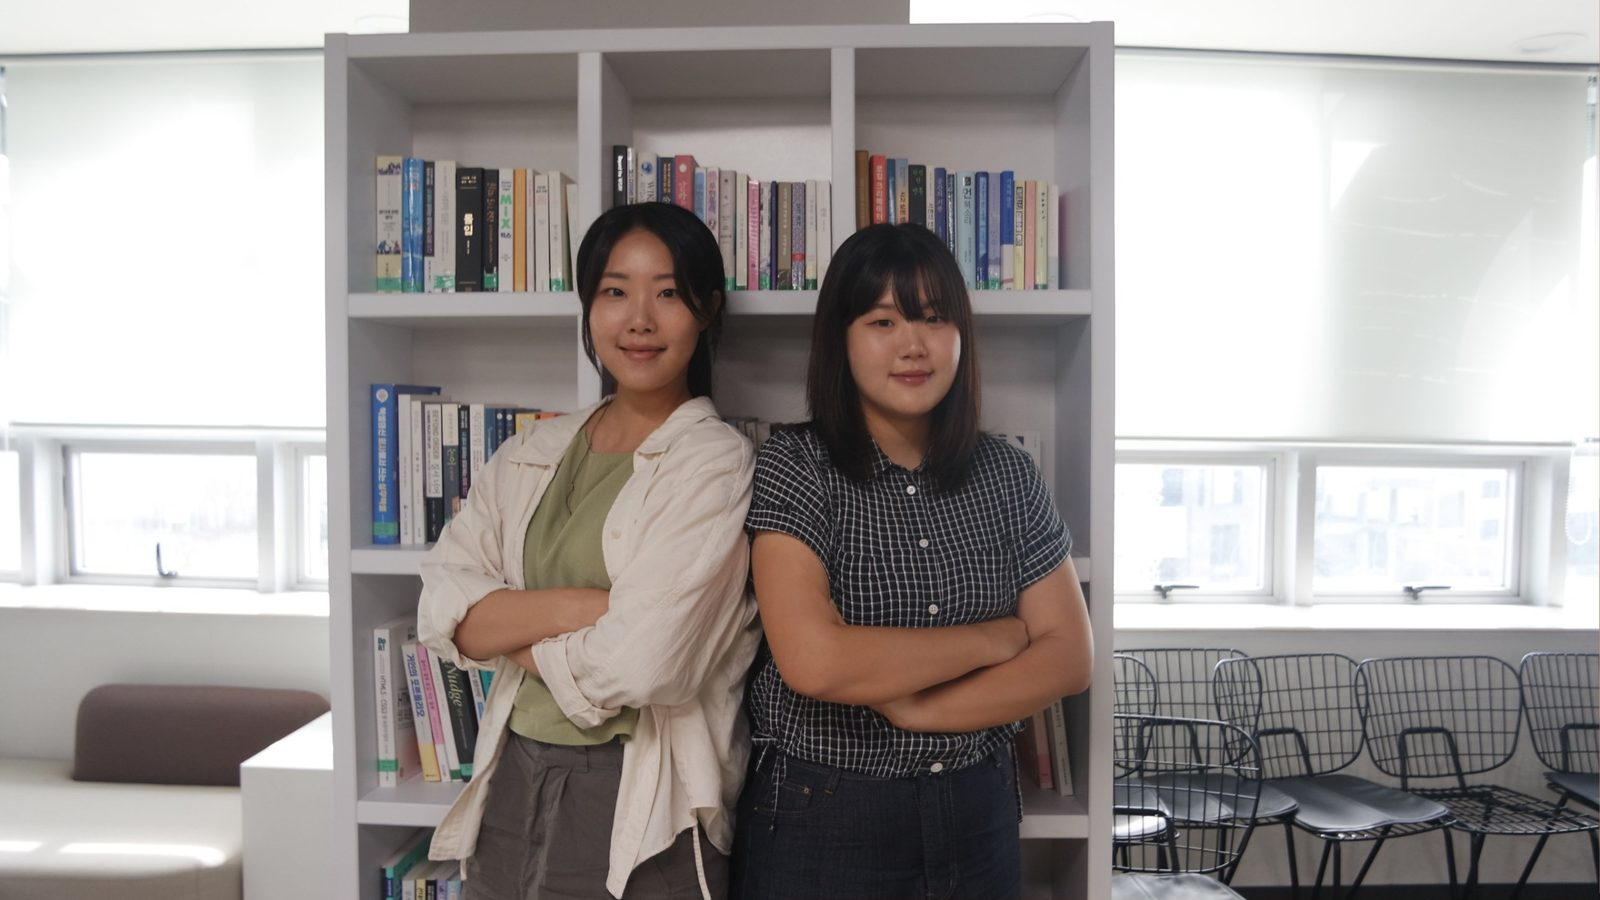
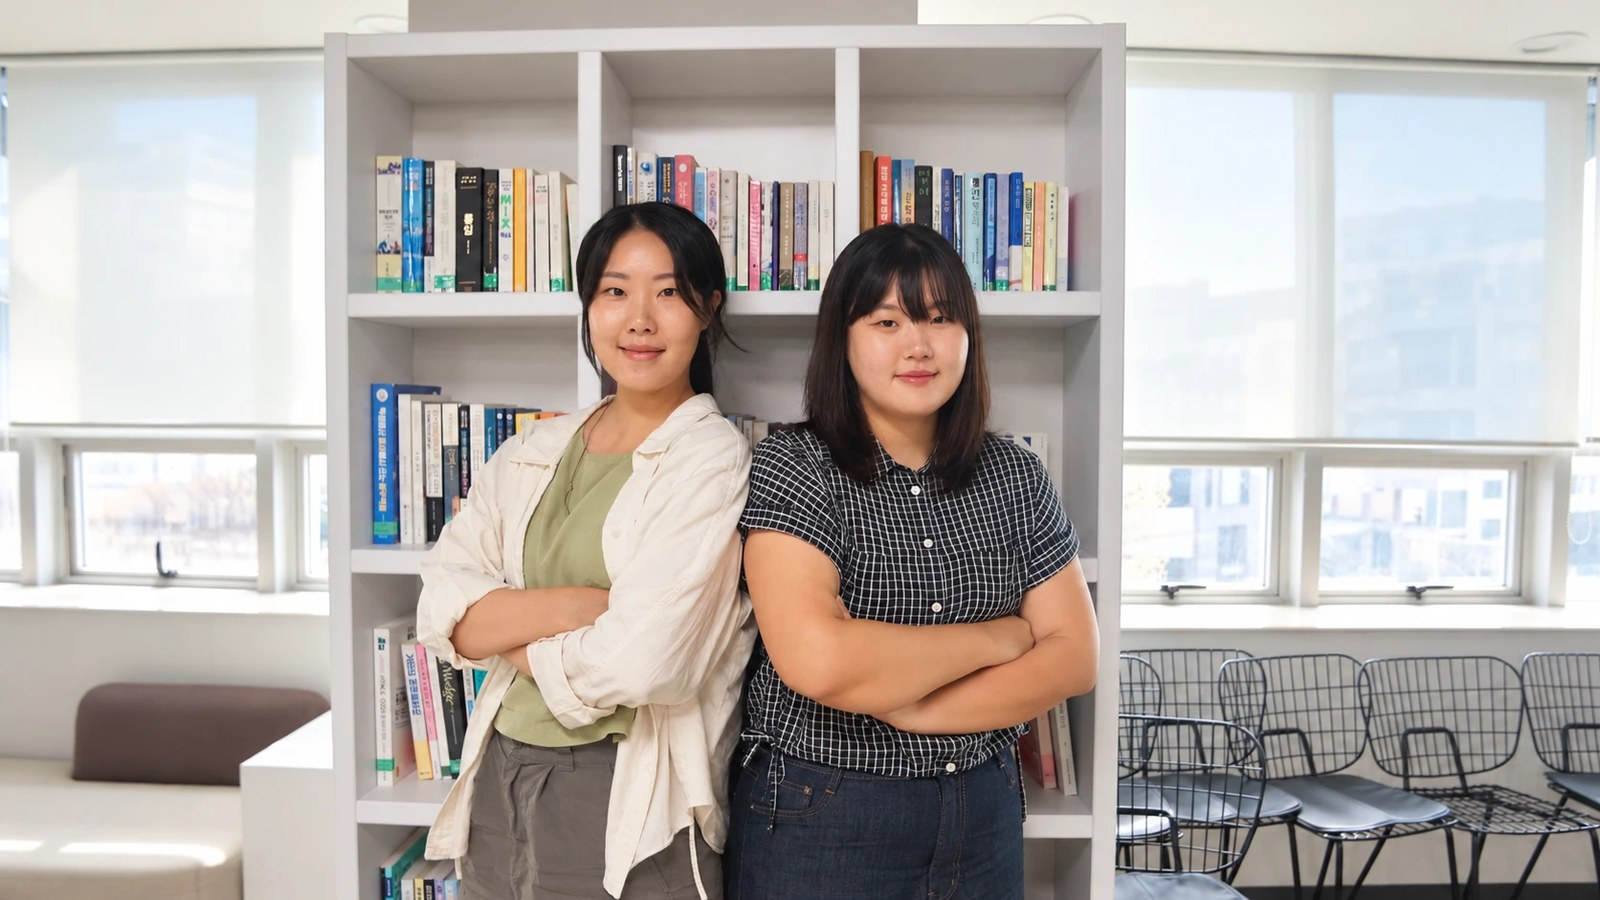
서브메인 아인학교 슬라이드 사진: 사용자가 준 밝기 손본 사진으로 (세 언어)
- interview-01-photo.jpg?v=2 (같은 장면, 어긋남 0px, 214KB)
- 서브메인용 누끼 interview-01-cut-b.webp (모양은 전 누끼 그대로, 색만 새 사진). 기사 첫 화면이 쓰는 interview-01-cut.webp는 그대로
- 다른 부분(누끼 밝기 CSS 등)은 손대지 않음, CLAUDE.md에 적음

diff --git a/public/index.html b/public/index.html
@@ -138,7 +138,7 @@
         </article>
         <article class="person person--photo person--photo-low" data-tone="photo" aria-labelledby="person-2-name" aria-roledescription="슬라이드" data-index="2">
           <!-- 배경: 팀이 직접 찍은 실사 사진 -->
-          <img class="person__photo" src="images/interview-01-photo.jpg" width="1600" height="900"
+          <img class="person__photo" src="images/interview-01-photo.jpg?v=2" width="1600" height="900"
                alt="아인학교 인터뷰 사진: 책장 앞에서 팔짱을 끼고 나란히 서서 웃고 있는 두 사람">
           <header class="person__top">
             <div>
@@ -150,7 +150,7 @@
           <div class="person__center">
             <h3 class="person__name" id="person-2-name"><span class="sr-only">아인학교: 섬의 자연에서 새로운 배움을 짓다</span><span class="person__back" aria-hidden="true"><span class="person__line person__line--back">섬의<br>자연에서</span></span><span class="person__front" aria-hidden="true"><span class="person__line person__line--front">새로운<br>배움을 짓다</span></span></h3>
             <!-- 인물만 오려 낸 사진: 배경 사진과 똑같은 자리에 겹쳐, 첫 줄 글자가 인물 뒤로 들어가 보이게 -->
-            <img class="person__photo person__cut" src="images/interview-01-cut.webp" width="1600" height="900" alt="">
+            <img class="person__photo person__cut" src="images/interview-01-cut-b.webp" width="1600" height="900" alt="">
           </div>
           <div class="person__bottom">
             <p class="person__desc">정형화된 교실을 벗어나 섬의 자연을 교실 삼았습니다.<br>아이들과 함께 매일 새로운 섬 사람이 되어가는 중입니다.</p>

diff --git a/public/ja/index.html b/public/ja/index.html
@@ -134,7 +134,7 @@
           </div>
         </article>
         <article class="person person--photo person--photo-low" data-tone="photo" aria-labelledby="person-2-name" aria-roledescription="スライド" data-index="2">
-          <img class="person__photo" src="../images/interview-01-photo.jpg" width="1600" height="900"
+          <img class="person__photo" src="../images/interview-01-photo.jpg?v=2" width="1600" height="900"
                alt="アイン学校のインタビュー写真：本棚の前で腕を組み、並んで笑う二人">
           <header class="person__top">
             <div>
@@ -145,7 +145,7 @@
           </header>
           <div class="person__center">
             <h3 class="person__name" id="person-2-name"><span class="sr-only">アイン学校：島の自然の中で、新しい学びをつくる</span><span class="person__back" aria-hidden="true"><span class="person__line person__line--back">島の<br>自然で</span></span><span class="person__front" aria-hidden="true"><span class="person__line person__line--front">新しい学びを<br>つくる</span></span></h3>
-            <img class="person__photo person__cut" src="../images/interview-01-cut.webp" width="1600" height="900" alt="">
+            <img class="person__photo person__cut" src="../images/interview-01-cut-b.webp" width="1600" height="900" alt="">
           </div>
           <div class="person__bottom">
             <p class="person__desc">型にはまった教室を離れ、島の自然を教室にしました。<br>子どもたちと一緒に、毎日新しい島の人になりつつあります。</p>

diff --git a/public/en/index.html b/public/en/index.html
@@ -134,7 +134,7 @@
           </div>
         </article>
         <article class="person person--photo person--photo-low" data-tone="photo" aria-labelledby="person-2-name" aria-roledescription="slide" data-index="2">
-          <img class="person__photo" src="../images/interview-01-photo.jpg" width="1600" height="900"
+          <img class="person__photo" src="../images/interview-01-photo.jpg?v=2" width="1600" height="900"
                alt="Ain School interview photo: two people standing side by side with arms crossed, smiling in front of a bookshelf">
           <header class="person__top">
             <div>
@@ -145,7 +145,7 @@
           </header>
           <div class="person__center">
             <h3 class="person__name" id="person-2-name"><span class="sr-only">Ain School: Building a new kind of learning in the island's nature</span><span class="person__back" aria-hidden="true"><span class="person__line person__line--back">In island<br>nature,</span></span><span class="person__front" aria-hidden="true"><span class="person__line person__line--front">building new<br>learning</span></span></h3>
-            <img class="person__photo person__cut" src="../images/interview-01-cut.webp" width="1600" height="900" alt="">
+            <img class="person__photo person__cut" src="../images/interview-01-cut-b.webp" width="1600" height="900" alt="">
           </div>
           <div class="person__bottom">
             <p class="person__desc">We left the one-size-fits-all classroom and made island nature our classroom.<br>With the children, we are becoming new islanders every day.</p>

diff --git a/CLAUDE.md b/CLAUDE.md
@@ -385,6 +385,10 @@ ijejumin-webzine/
     - 얼굴 쪽 밝기는 사용자가 정한 수치: PC 97 → 107(`brightness(1.22)`), 휴대폰 85 → 98(`1.26`, 899px 이하). `--cut-bright`로 나눠 둔다
       - 바로 전에는 PC·휴대폰 모두 1.34배(113·102)였다
     - 다른 세 사람은 인물과 배경 밝기가 비슷해 그대로 (백록마케팅 109·109, 파랑오브레코즈샵 45·42, 엠아이티도그 106·94)
+    - 같은 날 사진을 사용자가 준 밝기 손본 사진으로 바꿨다 (사용자 요청 "다른 부분은 건들지마", 세 언어 서브메인. 같은 장면이라 어긋남 0px, 평균 밝기 156 → 174)
+      - `interview-01-photo.jpg?v=2`(214KB). 누끼는 서브메인용 새 파일 `interview-01-cut-b.webp`(모양은 전 누끼 그대로, 색만 새 사진)
+        - 전 누끼 `interview-01-cut.webp`는 기사 첫 화면(`.story-cut`)이 같이 쓰고 있어 그대로 두었다 (기사는 바뀌지 않음)
+      - 위 누끼 밝기(`--cut-bright` 1.22·1.26)는 손대지 않아 새 사진 위에 그대로 더해진다
   - 엠아이티도그 사진(04, 전 '에밀리')은 사용자가 준 더 넓은 사진(손까지 나옴)으로 바꿨다 (2026-10-22). 1600×900으로 줄여 넣었다
     - 휴대폰에서 사진을 0.92배로 줄여 양옆에 어두운 여백이 생기던 것을 없앴다. 이제 줄이지 않고 위로 12% 당긴다 ("인물 더 올려줘")
     - 같은 이름으로 바꿨기 때문에 휴대폰이 예전 사진을 캐시에서 꺼내 썼다. 그래서 `index.html`의 두 사진 주소 끝에 `?v=2`를 붙였다
